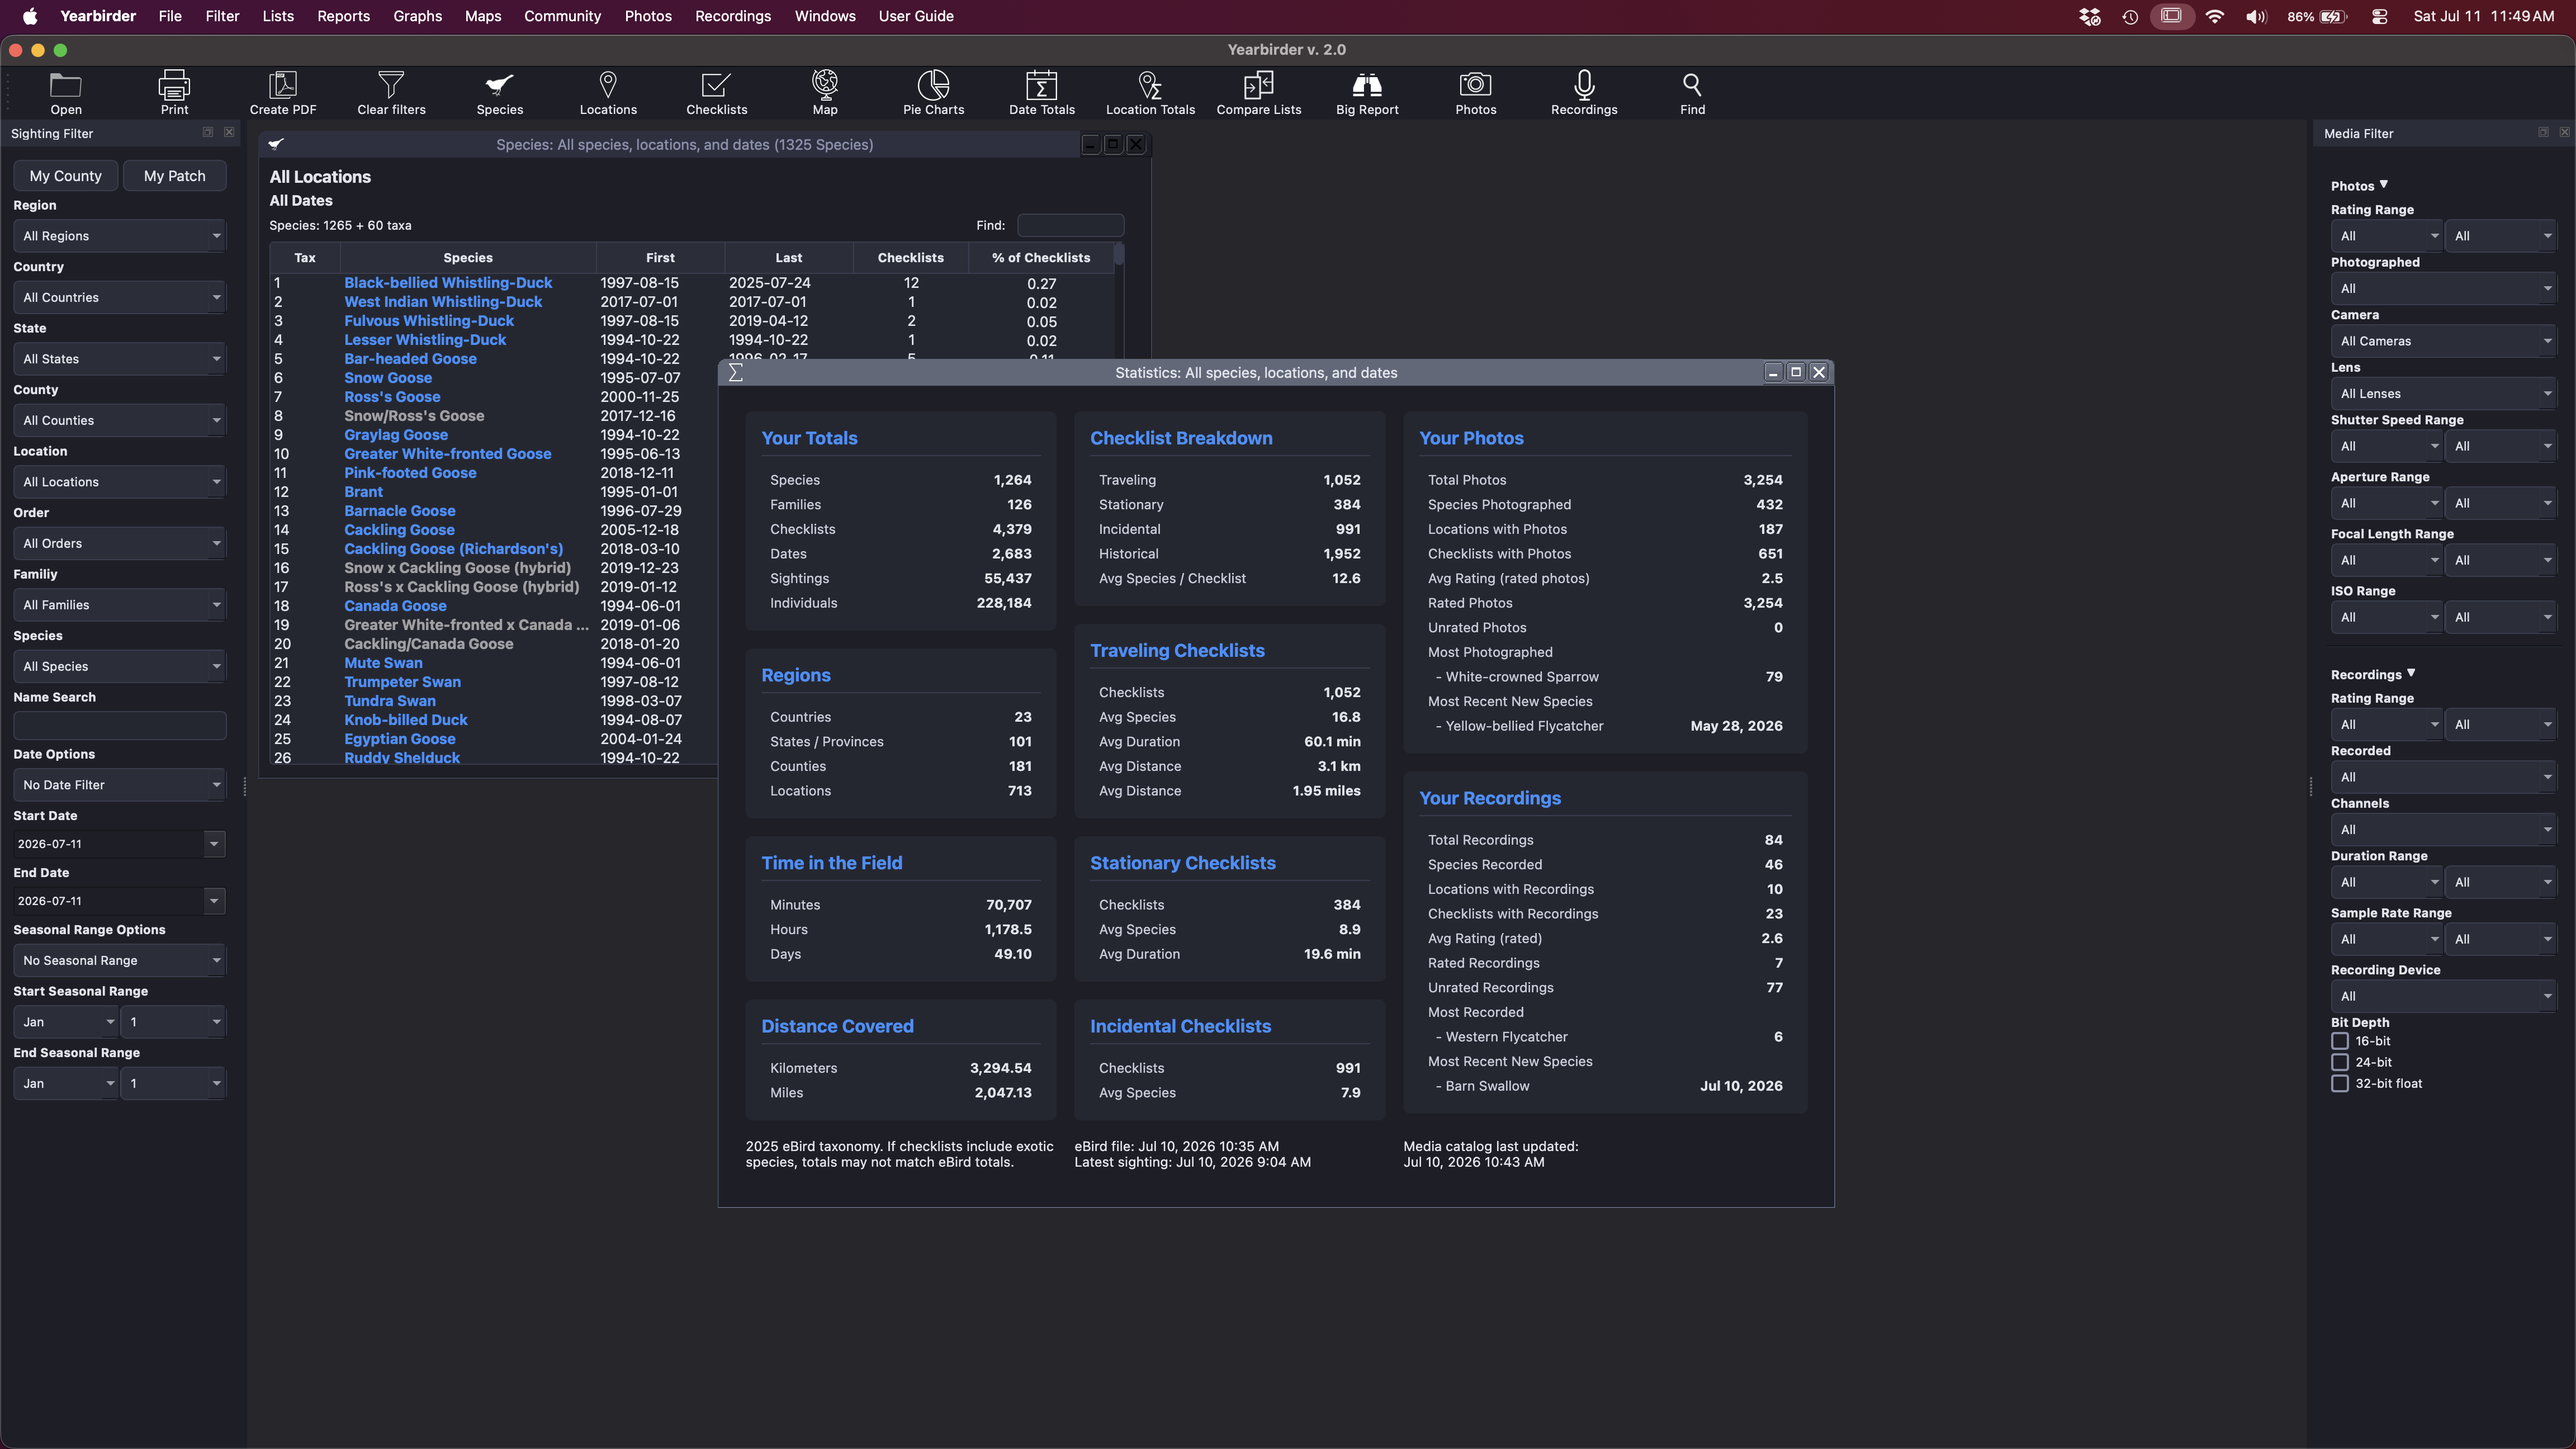
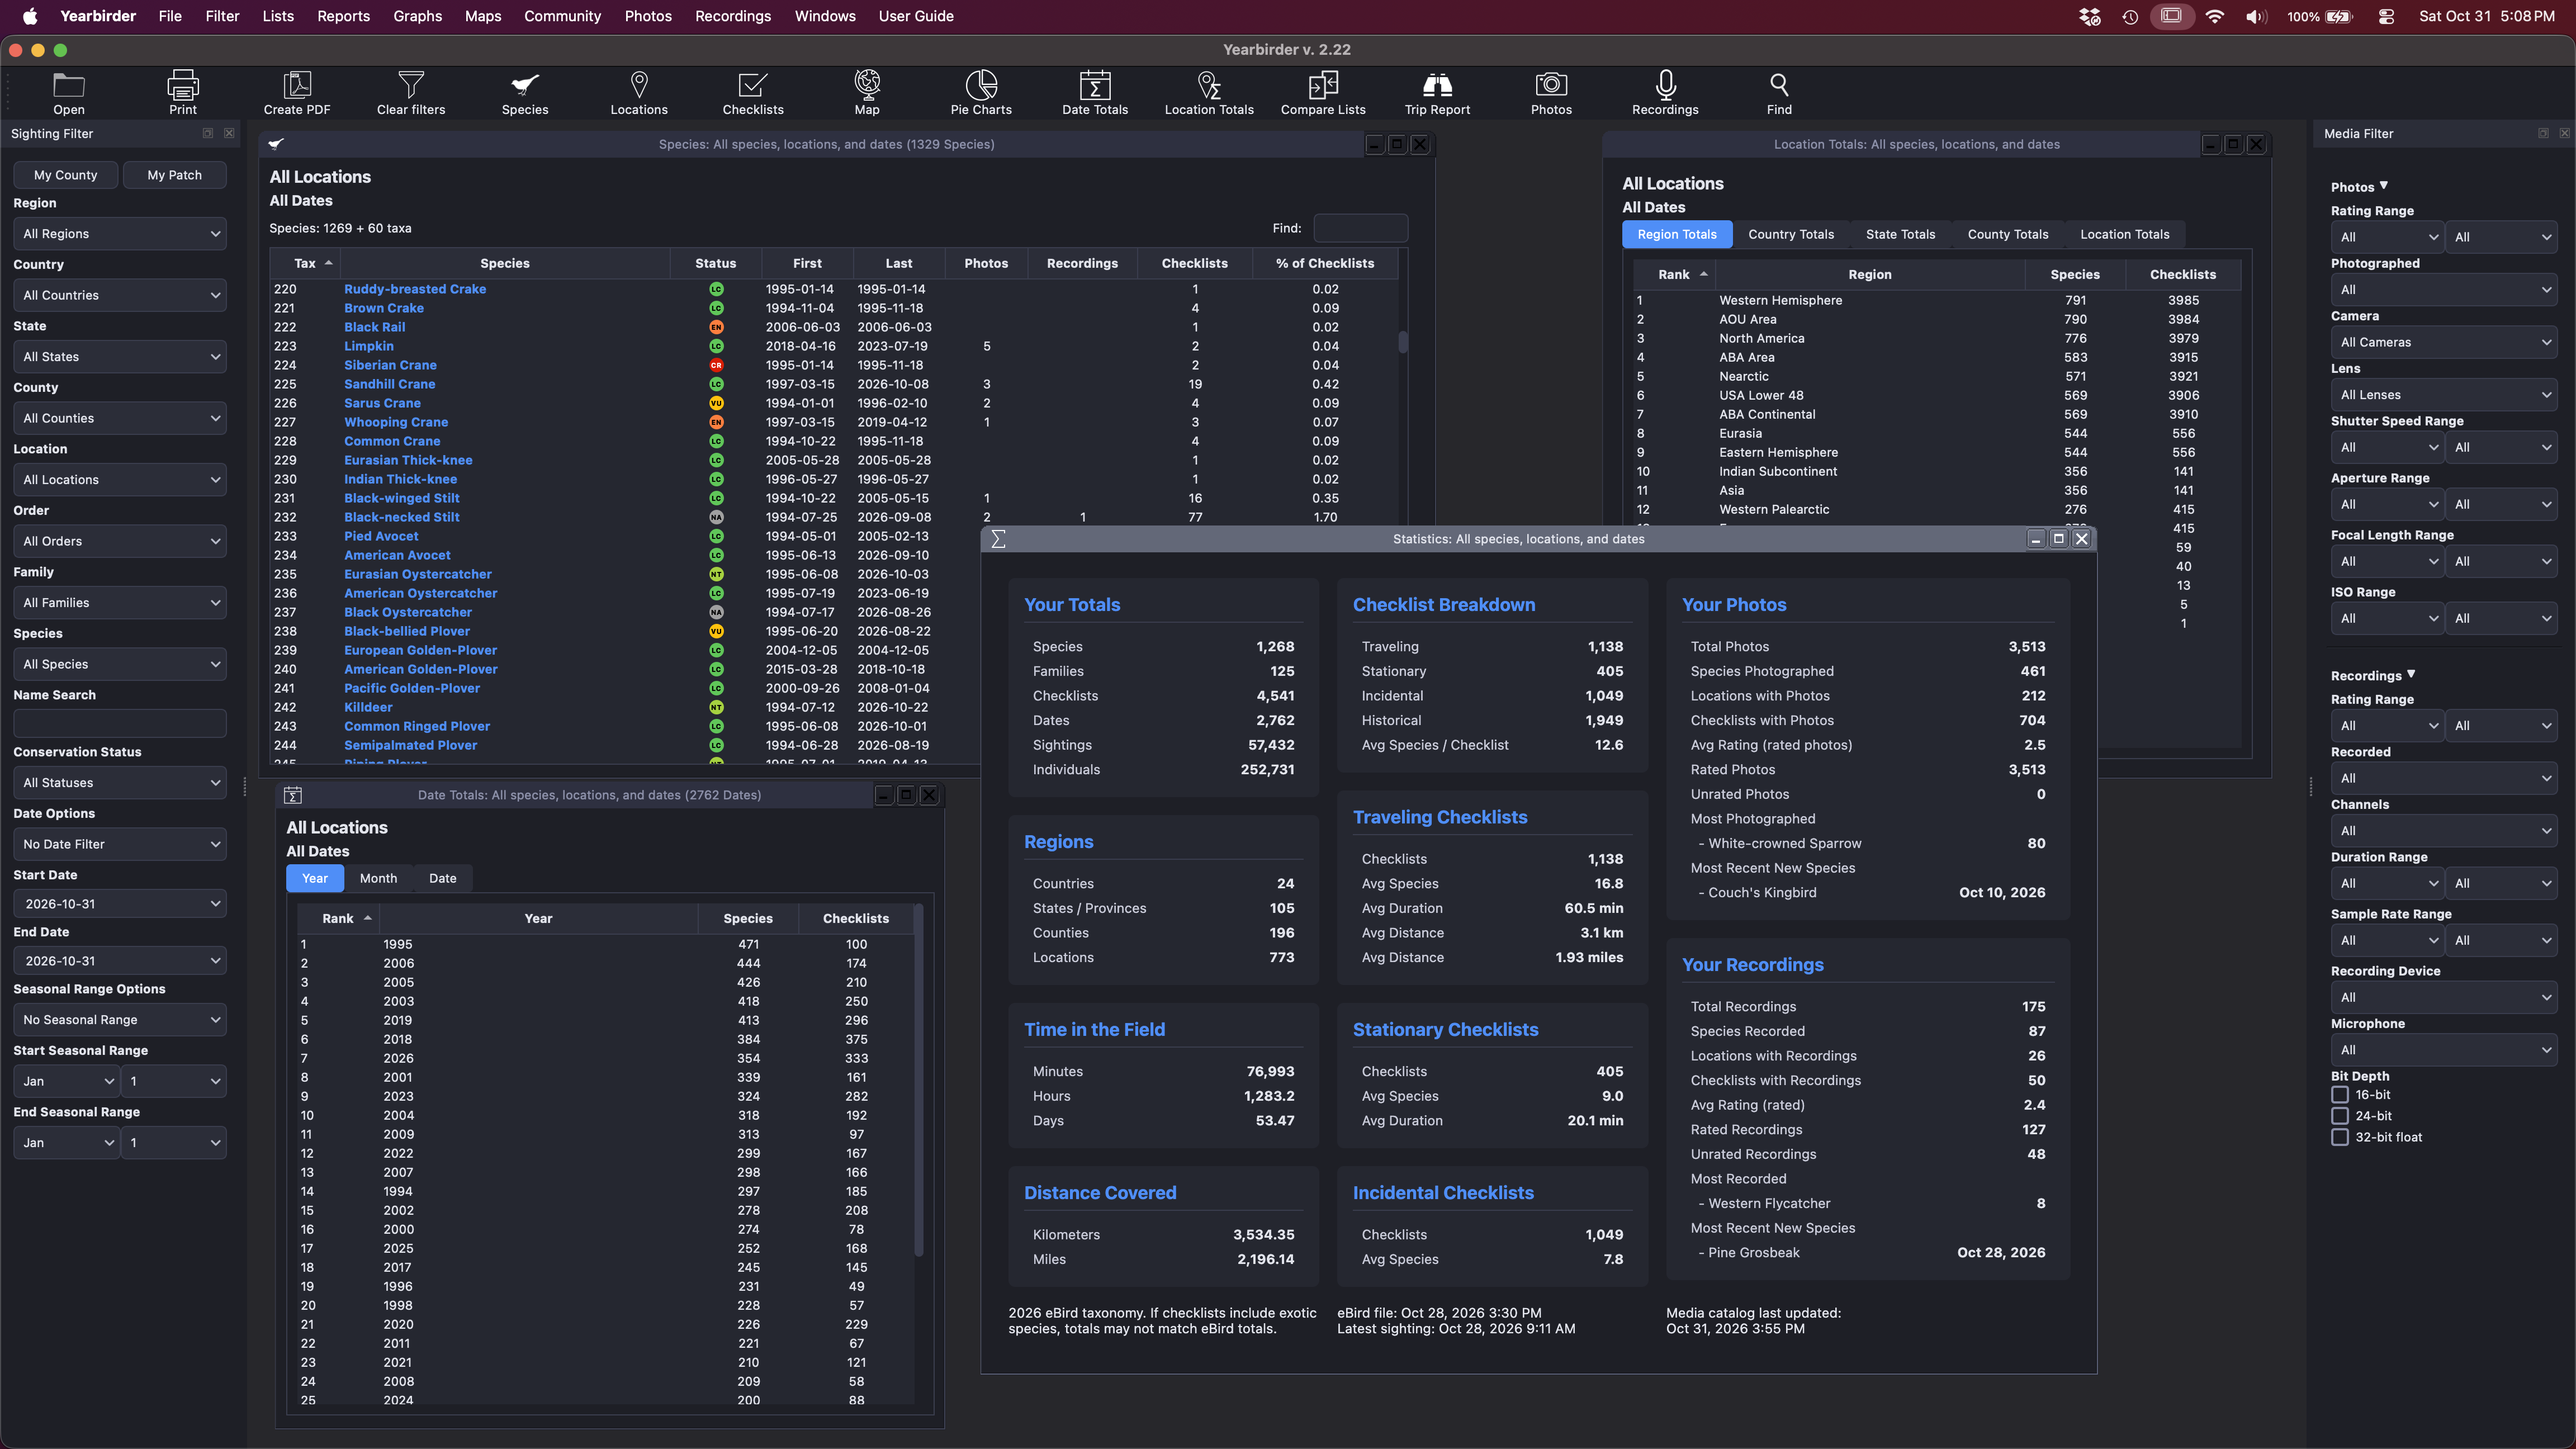
Sighting Analysis page: new main-window screenshot with conservation status; sitemap dates

diff --git a/web/sighting-analysis.html b/web/sighting-analysis.html
@@ -67,7 +67,7 @@
 <!-- ── Showcase ───────────────────────────────────────────────────── -->
 <section class="showcase">
   <div class="container">
-    <img src="images/opt/demo_AppMain.webp" alt="The Yearbirder main window with the Sighting Filter and a species list" width="2000" height="1125">
+    <img src="images/opt/demo_AppMain.webp" alt="The Yearbirder main window with the Sighting Filter, a species list showing each species&rsquo; conservation status, and the Statistics, Date Totals and Location Totals windows" width="2000" height="1125">
     <p class="caption">The main window: set a filter once, then open any list, chart, or map from it.</p>
   </div>
 </section>
@@ -82,7 +82,8 @@
           You can generate any variety of lists: county lists, state lists, date lists, lists of checklists, lists of locations — all filterable however you see fit. Create custom lists, like every sparrow you've seen on an April day in San Francisco County between 2008 and 2017, or a list of every location where you've seen a Western Kingbird.
         </p>
         <ul class="feature-list">
-          <li>Filter simultaneously by region, family, species, date range, and season</li>
+          <li>Filter simultaneously by region, family, species, conservation status, date range, and season</li>
+          <li>IUCN Red List conservation status for every species, from BirdLife International</li>
           <li>Compare any two species lists side by side</li>
           <li>Sort any table by any column instantly</li>
           <li>Individual species window with full sighting history and monthly patterns</li>
